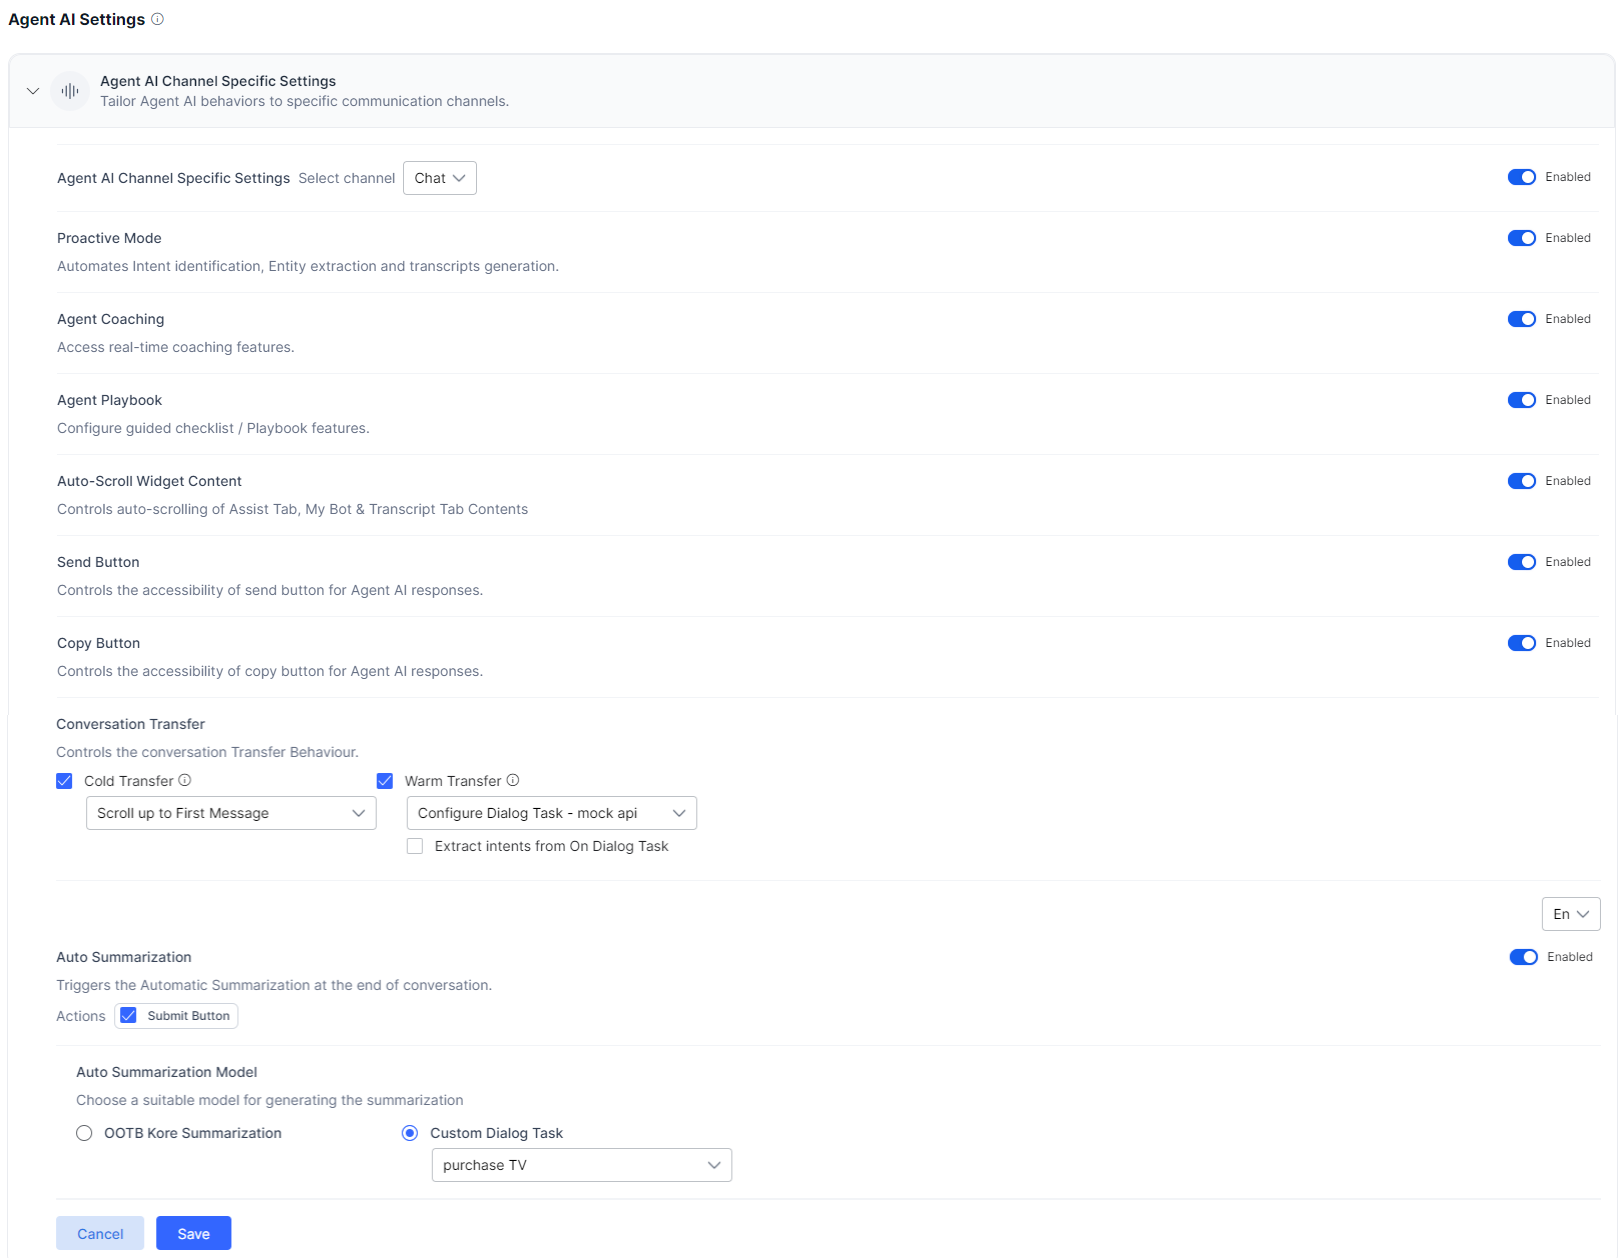
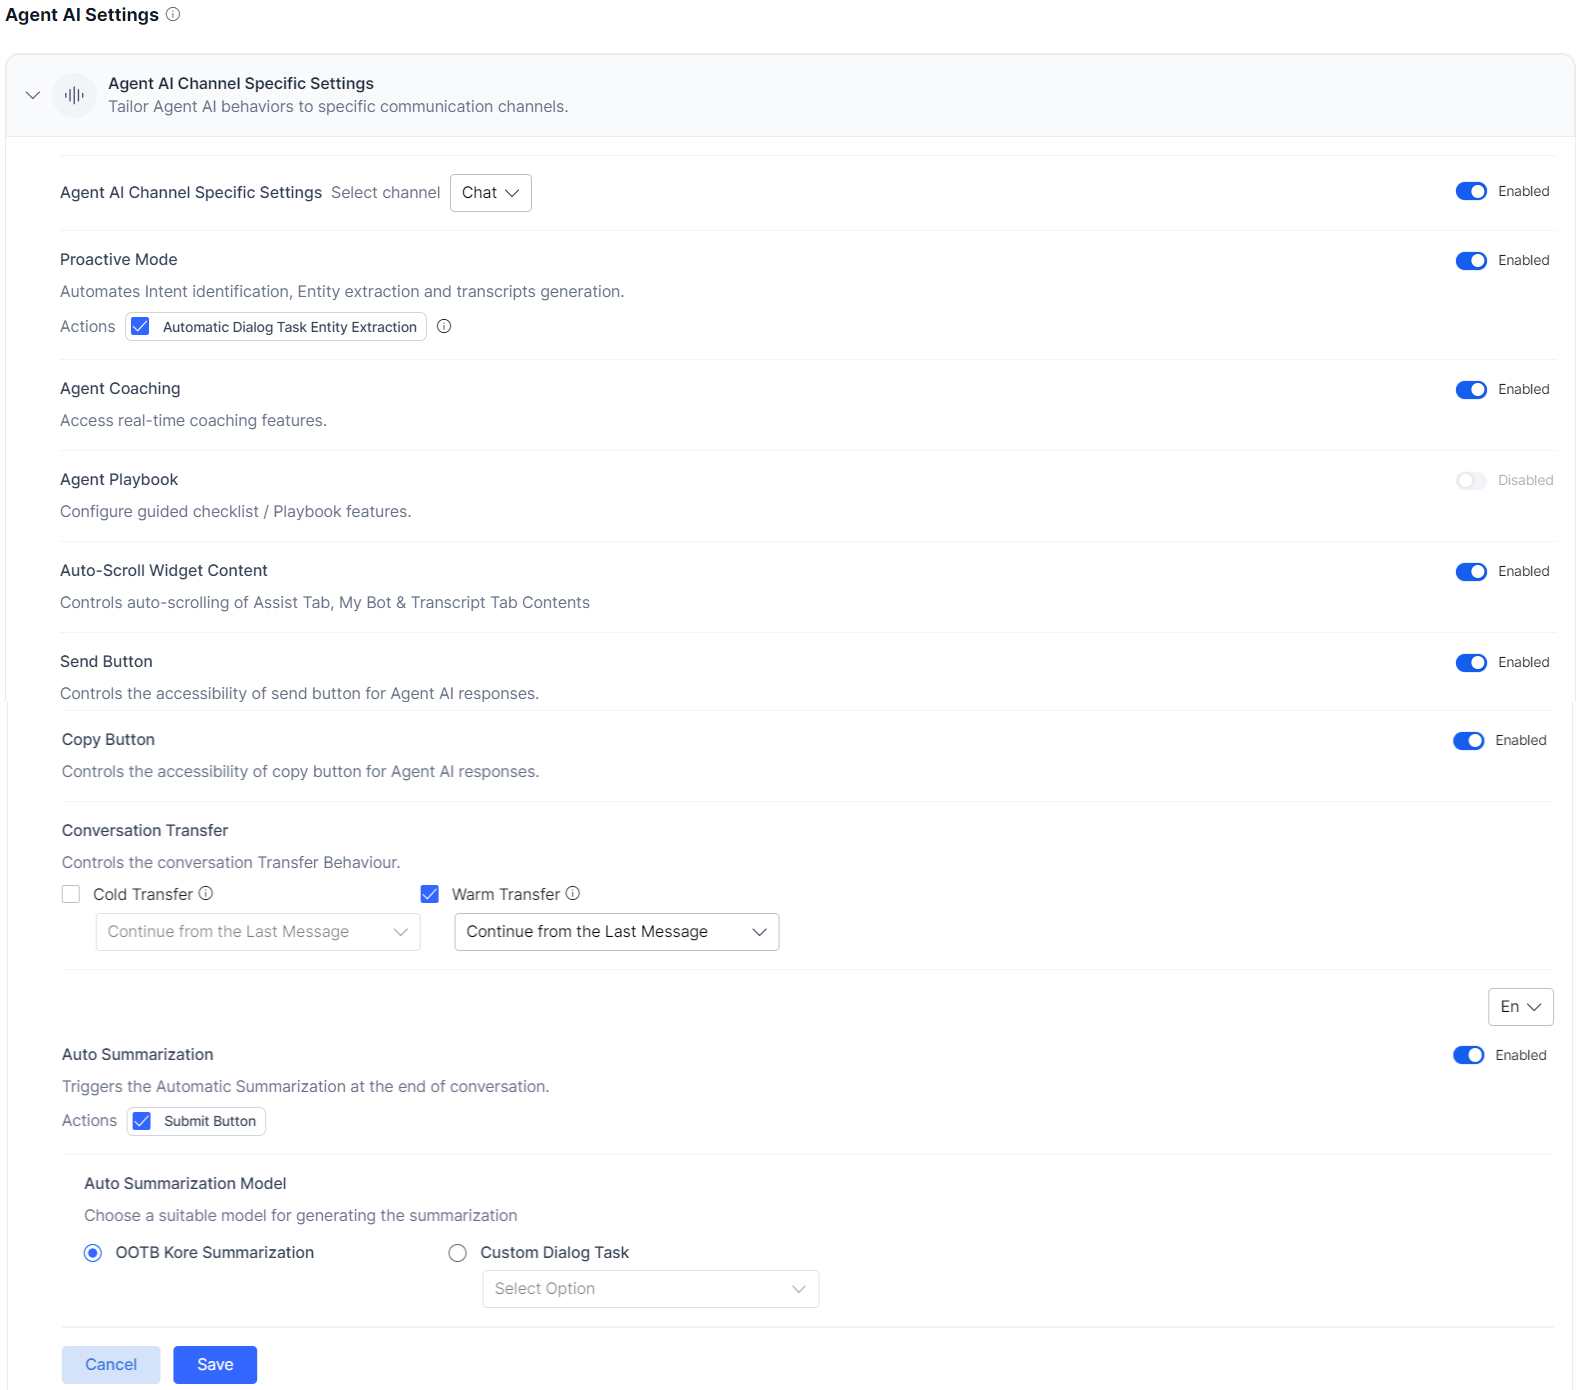
updated based on v11.9.0 release

diff --git a/docs/xo/agentai/configuration/widget-settings.md b/docs/xo/agentai/configuration/widget-settings.md
@@ -11,7 +11,7 @@ The Agent AI Settings page has the following sections:
 
 This section lets you set your preferences based on the channels. It has three channels – Chat, Voice, and Email – with a channel-specific default selection of options. The following options toggles are available to select under this section:
 
-* **Proactive Mode**: This widget automates intent identification, entity extraction, and transcripts generation. It lets you have automatic(proactive) transcripts logging and intent suggestions. If disabled, there will not be any automatic intent suggestions or transcripts logging. However, you can still use greetings, search bar, and MyBot automations. By default, this widget is enabled for all three channels.
+* **Proactive Mode**: This widget automates intent identification, entity extraction, and transcripts generation. It lets you have automatic (proactive) transcripts logging and intent suggestions. When enabled, you can also use the “Automatic Dialog Task Entity Extraction” option to automatically extract entities from user messages during a dialog task execution. If disabled, there will not be any automatic intent suggestions or transcripts logging. However, you can still use greetings, search bar, and MyBot automations. By default, this widget is enabled for all three channels.
     * The Assist tab/Run button remains in the disabled state. Only Run with agent’s input will be available.
     * The Playbook feature functions as follows:
         * For Dynamic playbooks, identification through the bulb icon and adherence are not functional, but tick-off and step progression continue to function.
@@ -56,10 +56,12 @@ This section lets you set your preferences based on the channels. It has three c
 2. Go to **Agent AI** > **Configuration** > **Widget Settings** > **Agent AI Settings** > **Agent AI Channel Specific Settings**.
 3. Click to expand the **Agent AI Channel Specific Settings** section on the **Agent AI Settings** page.
 4. Select a **channel** in the **Select channel** list.
-5. Click the **toggle** against **Agent AI Channel Specific Settings** to enable it (if **Disabled**).
-6. Turn the toggle **on** or **off** against each widget, as required.
-7. Select an option under the **Conversation Transfer** section.
-8. Select or clear the **Submit** button under the **Auto Summarization** section.
+5. Click the **toggle** against **Agent AI Channel Specific Settings** to enable it (if disabled).
+6. Turn the toggle **on** or **off** against the **Proactive Mode** widget.
+    * Select or clear the **Automatic Dialog Task Entity Extraction** option.
+7. Turn the toggle **on** or **off** against each widget, as required.
+8. Select an option under the **Conversation Transfer** section.
+9. Select or clear the **Submit** button under the **Auto Summarization** section.
 
     Under the **Auto Summarization Model** section, select:
 
